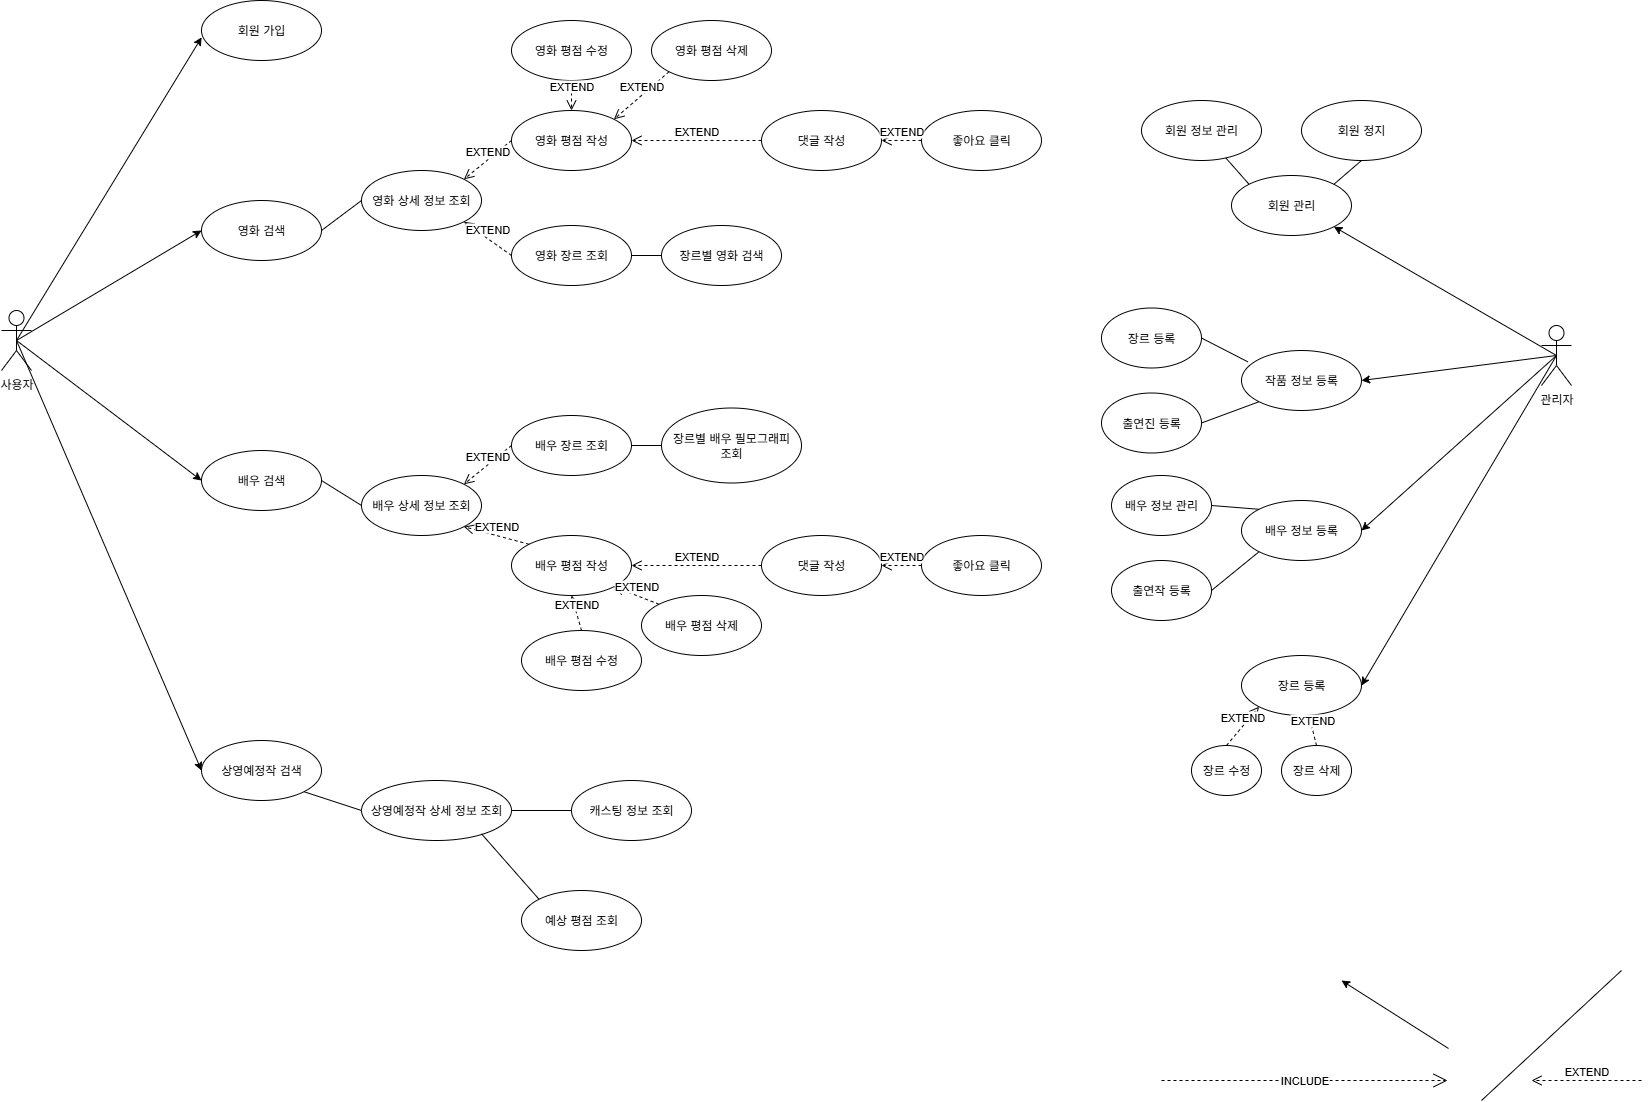
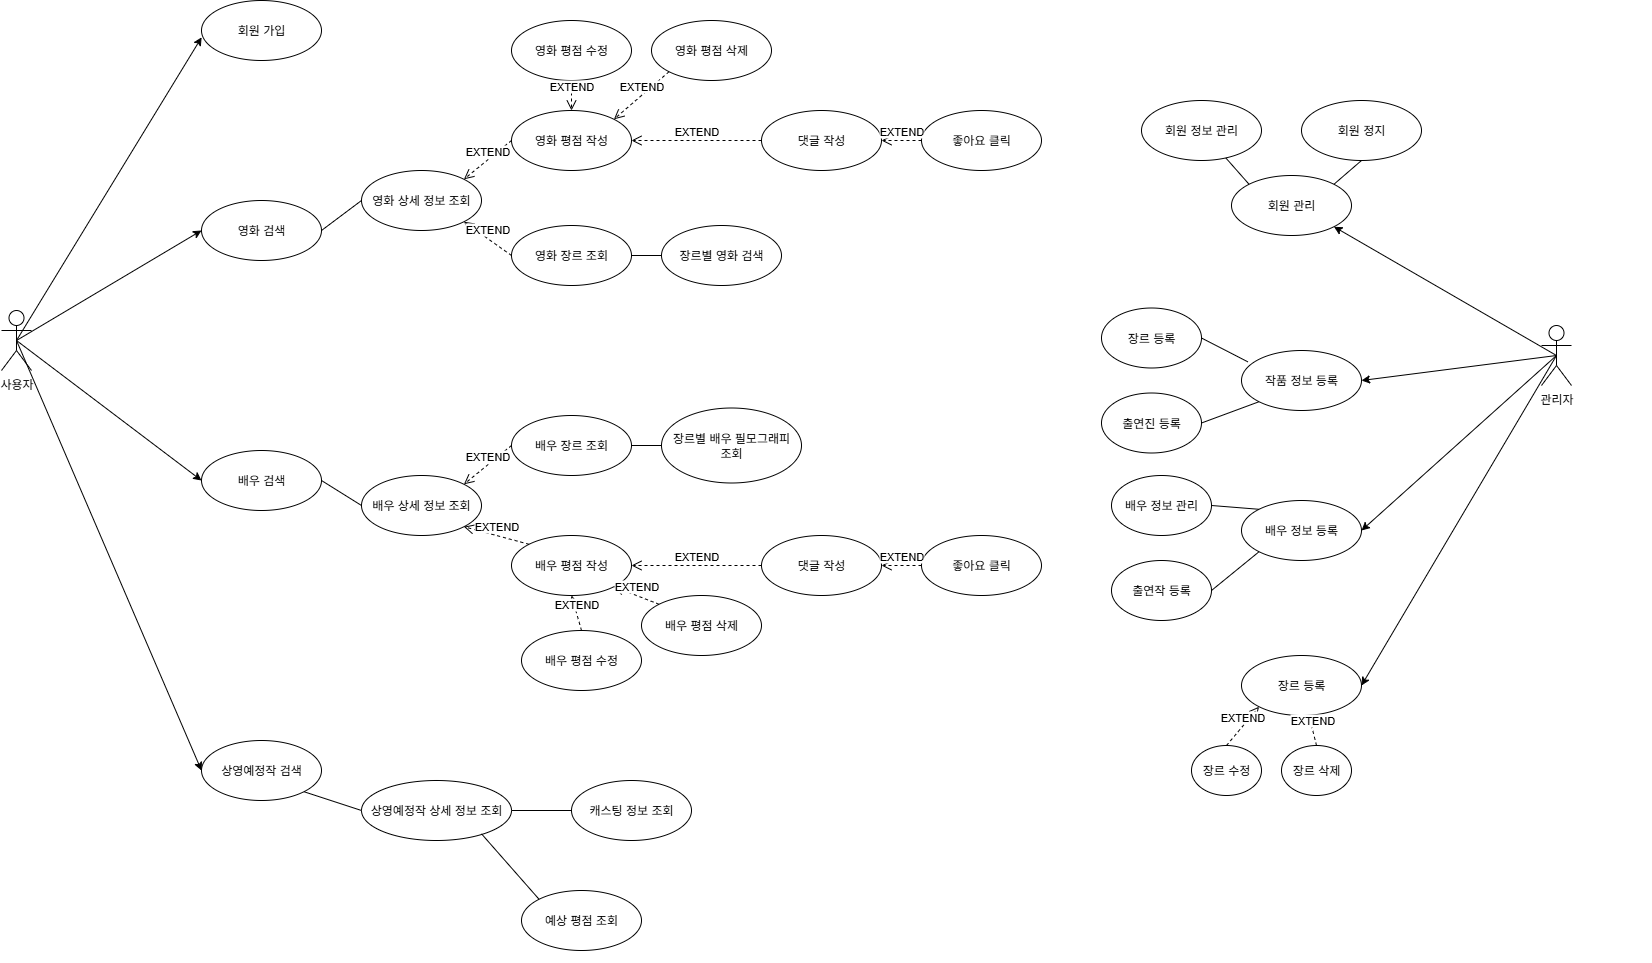
사진 크기 수정

diff --git a/README.md b/README.md
@@ -139,32 +139,32 @@
 
 ## 1-4. WBS
 
-<img src = "./image/wbs.png" width = "500"> </img> <br>
+<img src = "./image/wbs.png" width = "1000"> </img> <br>
 ---
 
 ## 1-5. 요구사항 명세서 
 
-<img src = "./image/요구사항1.png" width = "500"> </img>
-<img src = "./image/요구사항2.png" width = "500"> </img> <br>
+<img src = "./image/요구사항1.png" width = "1000"> </img>
+<img src = "./image/요구사항2.png" width = "1000"> </img> <br>
 ---
 ## 1-6. UML
 
-<img src = "./image/UML.png" width = "500"> </img> <br>
+<img src = "./image/UML.png" width = "1000"> </img> <br>
 ---
 
 ## 2. DB 모델링
 
 ### 2-1. 개념 모델링
 
-<img src = "./image/scenario.png" width = "500"> </img> <br>
+<img src = "./image/scenario.png" width = "1000"> </img> <br>
 ---
 ### 2-2. 논리 모델링
 
-<img src = "./image/논리erd.png" width = "500"> </img> <br>
+<img src = "./image/논리erd.png" width = "1000"> </img> <br>
 ---
 ### 2-3. 물리 모델링
 
-<img src = "./image/물리erd.png" width = "500"> </img> <br>
+<img src = "./image/물리erd.png" width = "1000"> </img> <br>
 ---
 ## 3. 서버 구축
 
